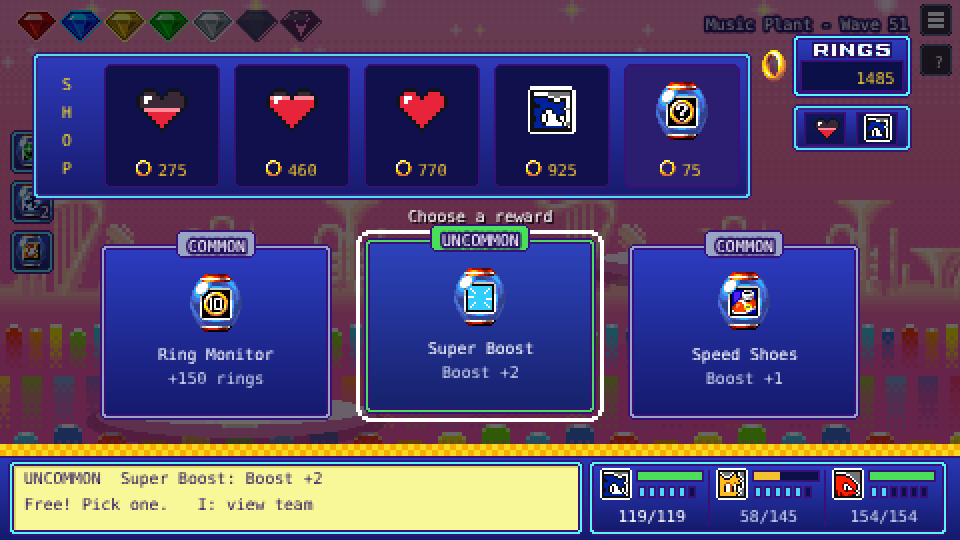
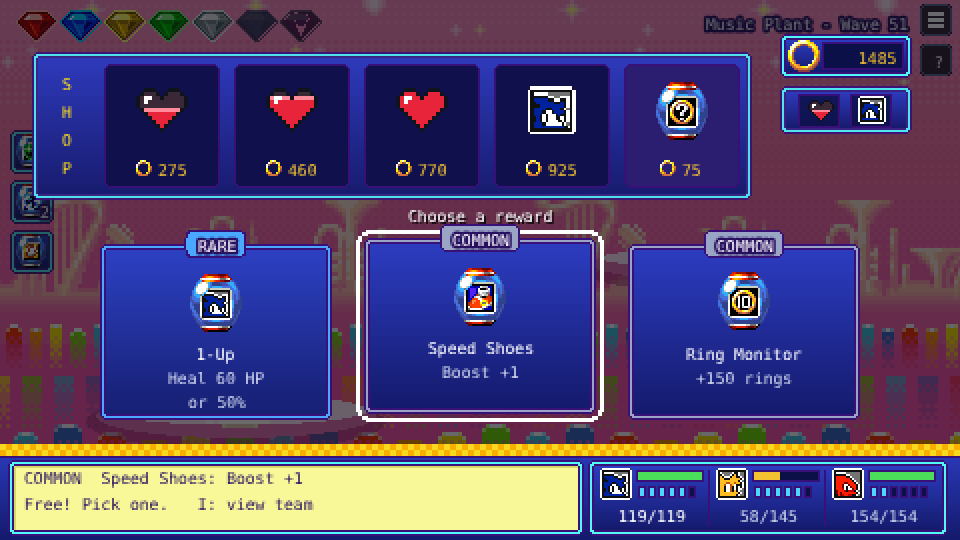
Ring counter: spinning ring and number only
Drops the RINGS label (and the tool and sheet that made it). The ring now
spins inside the panel next to the number, and the bag tray moved up.

Claude-Session: https://claude.ai/code/session_017uHxn1dCfFcE4Pae6cHTSG

diff --git a/src/scenes/hud.ts b/src/scenes/hud.ts
@@ -1,7 +1,6 @@
 // ---------------------------------------------------------------------------
 // Sonic-stijl HUD voor het gevecht, naar de UI van de Tiny Chao Garden (Sonic Advance):
-// paarse rand met een cyaan lijntje, blauwe of crème vulling, goud geblokte banden en
-// het RINGS-label. Plaatjes komen uit tools/build_hud.py.
+// paarse rand met een cyaan lijntje, blauwe of crème vulling en goud geblokte banden.
 // ---------------------------------------------------------------------------
 import Phaser from 'phaser';
 
@@ -62,7 +61,7 @@ export function checkerBand(g: Phaser.GameObjects.Graphics, x: number, y: number
 }
 
 /**
- * Ring-teller rechtsboven: draaiende ring, "RINGS" en het getal in goud in een donker venster.
+ * Ring-teller rechtsboven: draaiende ring en het getal in goud in een donker venster.
  * `setText` zodat hij net zo werkt als de oude tekst-teller.
  */
 export class RingCounter {
@@ -70,23 +69,22 @@ export class RingCounter {
   readonly ring: Phaser.GameObjects.Sprite;
   private digits: Phaser.GameObjects.Text;
   private value = -1;
-  static readonly W = 60;
-  static readonly H = 32;
-  static readonly DIGITS_Y = 17;
+  static readonly W = 66;
+  static readonly H = 22;
+  static readonly DIGITS_Y = 7;
 
   constructor(private scene: Phaser.Scene, x: number, y: number) {
     this.root = scene.add.container(x, y).setDepth(20);
     const g = scene.add.graphics();
     sonicPanel(g, 0, 0, RingCounter.W, RingCounter.H, 'blue');
-    g.fillStyle(HUD.outline).fillRect(4, 13, RingCounter.W - 8, 16);
-    g.fillStyle(HUD.pipEmpty).fillRect(5, 14, RingCounter.W - 10, 14);
+    g.fillStyle(HUD.outline).fillRect(21, 4, RingCounter.W - 25, 14);
+    g.fillStyle(HUD.pipEmpty).fillRect(22, 5, RingCounter.W - 27, 12);
     this.root.add(g);
-    this.root.add(scene.add.image(RingCounter.W / 2, 4, 'hud_rings_label').setOrigin(0.5, 0));
-    this.digits = scene.add.text(RingCounter.W - 8, RingCounter.DIGITS_Y, '0',
+    this.digits = scene.add.text(RingCounter.W - 7, RingCounter.DIGITS_Y, '0',
       { fontFamily: '"Press Start 2P", monospace', fontSize: '8px', color: '#f2c230' }).setOrigin(1, 0);
     this.root.add(this.digits);
-    // draaiende ring links van het paneel (de rings uit een wave vliegen hierheen)
-    this.ring = scene.add.sprite(x - 9, y + RingCounter.H / 2, 'ui', 'ring_0').setDepth(20).play('ring_spin');
+    // draaiende ring links in het paneel (de rings uit een wave vliegen hierheen)
+    this.ring = scene.add.sprite(x + 12, y + RingCounter.H / 2, 'ui', 'ring_0').setDepth(20).play('ring_spin');
   }
 
   setText(text: string) {

diff --git a/src/scenes/BattleScene.ts b/src/scenes/BattleScene.ts
@@ -431,13 +431,13 @@ export class BattleScene extends Phaser.Scene {
 
     // tas: elk item een eigen vakje (BAG_SIZE), grijs als je dit gevecht al een item gebruikte
     this.bagTray?.destroy();
-    const tx = W - 24 - RingCounter.W, ty = 52;
+    const tx = W - 24 - RingCounter.W, ty = 17 + RingCounter.H + 4;
     const tray = this.add.container(tx, ty).setDepth(42);
     tray.add(sonicPanel(this.add.graphics(), 0, 0, RingCounter.W, 24, 'blue', 0.92));
     const items = Object.keys(ITEMS).flatMap(id => Array(this.bag[id] ?? 0).fill(id) as string[]);
     const used = this.itemsUsed >= ITEMS_PER_FIGHT;
     for (let i = 0; i < BAG_SIZE; i++) {
-      const sx = 17 + i * 26;
+      const sx = RingCounter.W / 2 - 13 + i * 26;
       tray.add(this.add.rectangle(sx, 12, 20, 16, HUD.pipEmpty, 0.85).setStrokeStyle(1, HUD.outline));
       const id = items[i];
       if (!id) continue;

diff --git a/README.md b/README.md
@@ -28,7 +28,7 @@ Non-commercial fan project. Not affiliated with SEGA or Sonic Team.
 - **Stat stages.** Some moves and passives raise ATK, DEF or SPD by a stage (+25% each, up to +6). Stages reset after every zone boss.
 - **Nine zones** from Sonic Advance 2 and 3, each with its own music. Every run starts in Route 99 and Leaf Forest; after that the zones are shuffled within an early, mid and late group, so every run feels different but the hardest zones stay at the end. Some zones affect your team, like the heat in Hot Crater or the cold in Twinkle Snow.
 - **Bosses and Chaos Emeralds.** Every tenth wave is a boss. Beat it to collect a Chaos Emerald. After a zone boss everyone gets back up to at least 50% HP; after waves 20, 40, 60 and 80 the whole team is fully healed with at least 3 Boost.
-- **Sonic-style battle HUD** based on the Tiny Chao Garden UI: a RINGS counter, your bag and active buffs always on screen (hover for details), and every teammate's HP and Boost in the party menu and during rewards.
+- **Sonic-style battle HUD** based on the Tiny Chao Garden UI: a ring counter, your bag and active buffs always on screen (hover for details), and every teammate's HP and Boost in the party menu and during rewards.
 - **Rewards and a shop** after every wave. Rewards come in five rarities, from Speed Shoes and Shields to Chaos Drives, Eggman's trapped monitors and the ultra rare Move Chip. Healing mostly costs rings, your bag only holds two items, and income and prices follow one money curve, like PokéRogue. Design notes: [docs/design/rewards.md](docs/design/rewards.md).
 - **Exp. Share** after wave 10 (50%, then 80% after wave 20). The character in the fight always levels fastest.
 - **KOs last.** A teammate who goes down stays down until you beat the zone boss. From wave 20 the shop sells an expensive Revive.

diff --git a/ROADMAP.md b/ROADMAP.md
@@ -24,7 +24,7 @@
 - [x] Balance pass: faster Sonic, stronger Knuckles (Fired Up), free items (1 per fight), heals for any teammate, flat-or-percent heals, better boss rewards
 - [x] Boss recovery: 50% patch-up after zone bosses, full heal and 3+ Boost after waves 20/40/60/80
 - [x] Random zone order per run (fixed start, shuffled early/mid/late groups)
-- [x] Sonic-style battle HUD: RINGS counter, bag and buff icons on screen with hover info, Boost in the party menu and during rewards
+- [x] Sonic-style battle HUD: ring counter, bag and buff icons on screen with hover info, Boost in the party menu and during rewards
 - [x] Unit tests, end-to-end tests and automatic deploys
 
 ## Next
